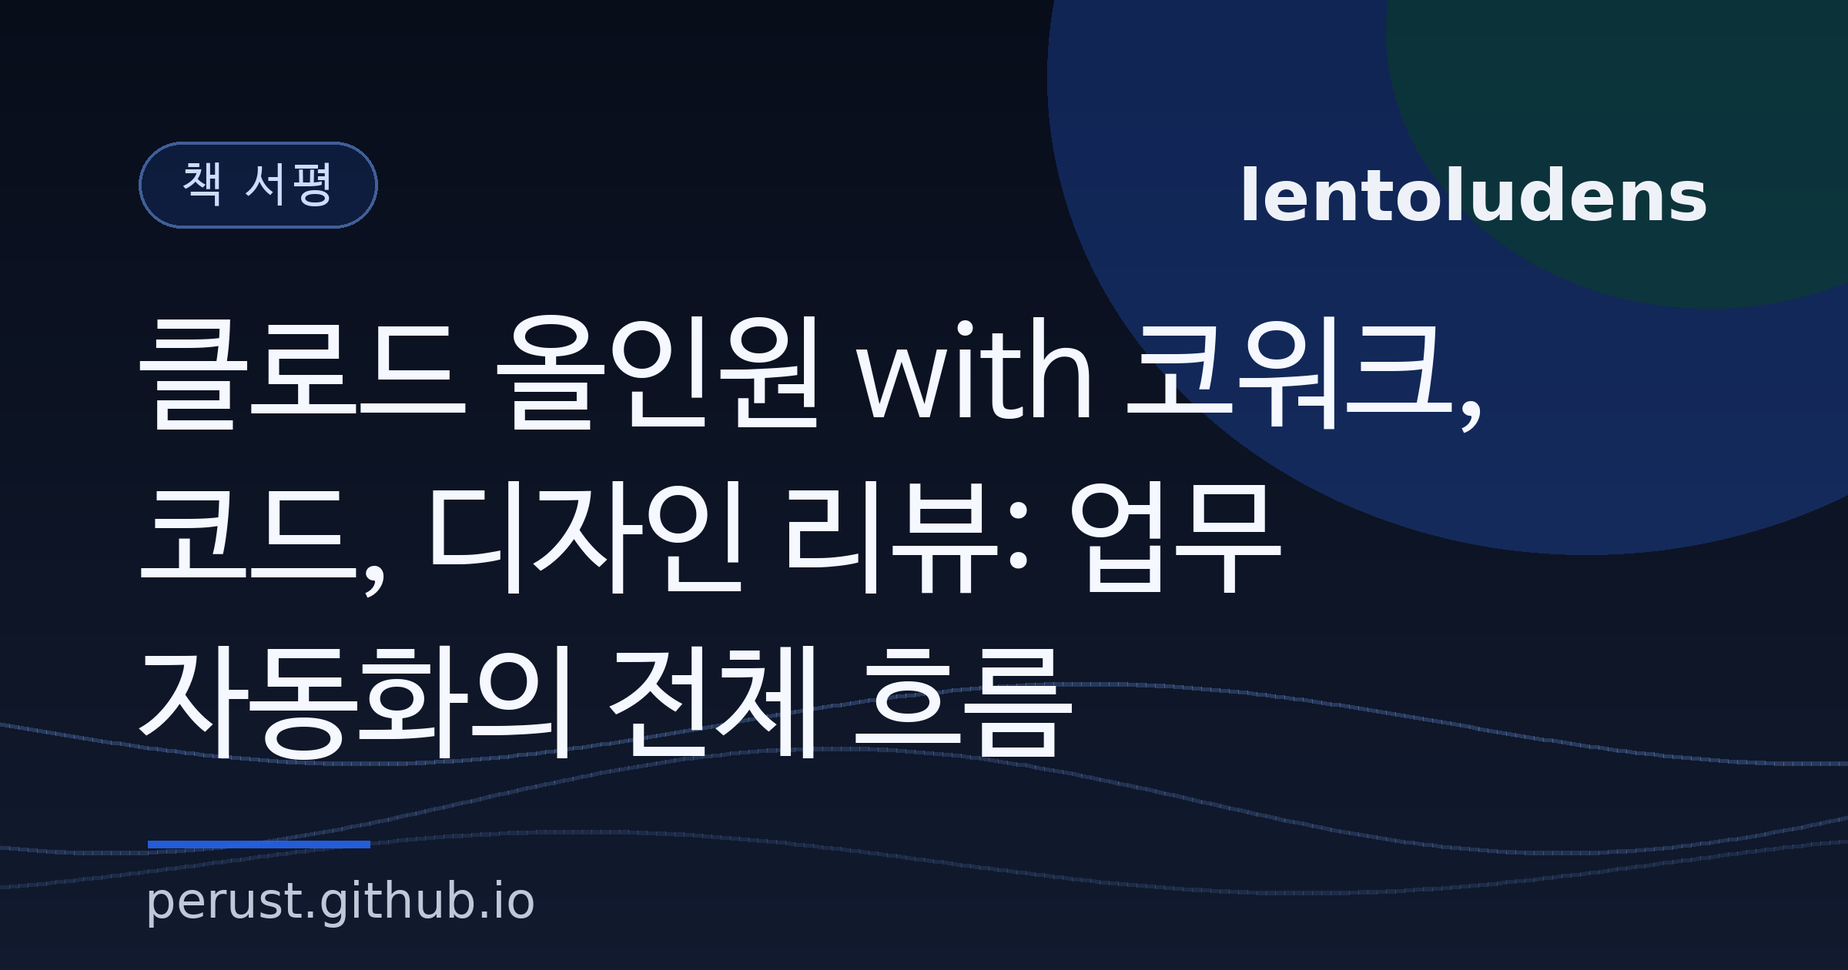
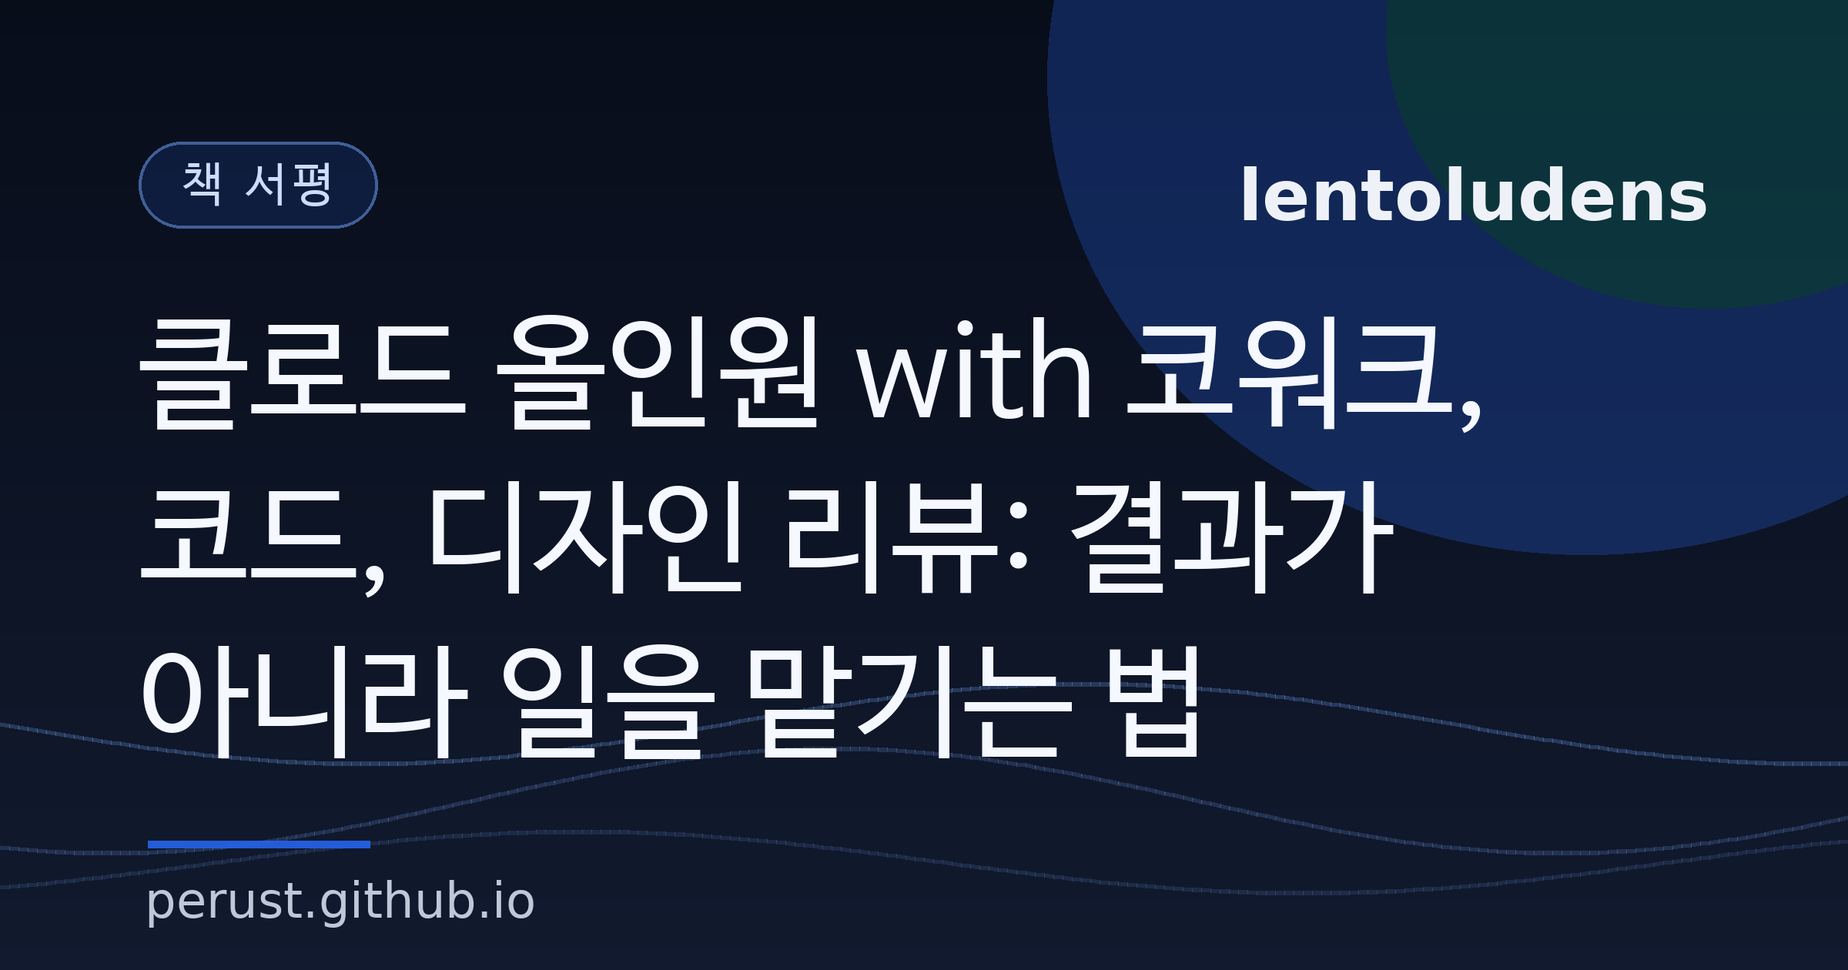
Rewrite Claude book review around personal experience

Changed region(s): [[0.0625, 0.65, 0.6562, 0.8048], [0.5625, 0.4952, 0.75, 0.619]]

diff --git a/src/content/blog/2026-07-27-claude-all-in-one-with-cowork-code-design-review.md b/src/content/blog/2026-07-27-claude-all-in-one-with-cowork-code-design-review.md
@@ -1,6 +1,6 @@
 ---
-title: "클로드 올인원 with 코워크, 코드, 디자인 리뷰: 업무 자동화의 전체 흐름"
-description: "한빛미디어 실용서 클로드 올인원 with 코워크, 코드, 디자인의 구성과 첫인상을 목차와 파트 도입부를 기준으로 정리한 1차 리뷰입니다. 실습 경험은 추후 보완합니다."
+title: "클로드 올인원 with 코워크, 코드, 디자인 리뷰: 결과가 아니라 일을 맡기는 법"
+description: "Chat, Cowork, Code의 미묘한 차이부터 문서·디자인·바이브 코딩까지, 클로드를 실제 업무와 생활에 활용하는 방법을 읽으며 느낀 점을 정리했습니다."
 date: "2026-07-27"
 category: "책 서평"
 tags: ["Claude", "자동화", "AI도구", "바이브코딩", "생산성"]
@@ -10,7 +10,7 @@ valueType: "review"
 
 한빛미디어 서평단 "나는리뷰어다" 활동을 위해 책을 제공받아 작성한 서평입니다.
 
-※ 이 글은 공식 목차와 각 파트 도입부, 21장 도입부를 살펴본 단계에서 정리한 1차 리뷰입니다. 직접 따라 해본 실습과 세부 감상은 이후 본문에 덧붙일 예정입니다.
+전자책으로 Part 01부터 Part 05까지 읽었지만, 책의 모든 실습을 직접 따라 하지는 않았습니다.
 
 ## 책 소개
 
@@ -19,8 +19,6 @@ valueType: "review"
 </a>
 
 <small style="text-align: center;">표지 이미지 제공: 한빛미디어</small>
-
-『클로드 올인원 with 코워크, 코드, 디자인』은 클로드를 채팅으로만 사용하는 단계에서 벗어나 문서 작업, 파일 정리, 디자인 제작, 외부 서비스 연결, 반복 업무 자동화, 작은 업무 도구 제작까지 이어가는 방법을 다루는 책입니다.
 
 <div class="routine-kv">
   <div><dt>도서</dt><dd>클로드 올인원 with 코워크, 코드, 디자인</dd></div>
@@ -35,90 +33,82 @@ valueType: "review"
 
 <img src="/images/posts/2026-07-27-claude-all-in-one-review/reading-cover.webp" alt="태블릿 화면에 띄운 클로드 올인원 with 코워크, 코드, 디자인 전자책 표지" width="1000" height="1333" loading="lazy" style="max-width: 680px; margin: 0 auto;" />
 
-<small style="text-align: center;">한빛+에서 전자책 표지를 띄운 모습</small>
+<small style="text-align: center;">한빛+에서 전자책 표지를 띄운 모습. 표지 저작권은 한빛미디어에 있습니다.</small>
 
-## 채팅 사용법을 넘어 업무 흐름으로
+## Chat, Cowork, Code는 무엇이 다를까
 
-클로드를 처음 접하면 보통 채팅창에 질문하고 답을 받는 방식부터 시작합니다. 문장을 다듬거나 자료를 요약하고 필요한 코드를 물어보는 식입니다. 이 책은 그 다음 단계에서 필요한 질문을 다룹니다. "어떻게 물어볼까?"보다 "이 일을 어디에 맡기고 어디까지 진행할까?"에 초점을 맞춥니다.
+데스크톱 앱 안에서도 클로드는 Chat, Cowork, Code로 나뉩니다. 역할을 확실하게 나눠놓았다는 뜻인데, 처음에는 그 차이가 생각보다 미묘하게 느껴졌습니다. 셋 모두 자연어로 요청하면 내용을 이해하고 원하는 결과를 만들어주기 때문입니다.
 
-공식 목차를 따라가면 먼저 작업의 크기와 성격을 구분하고 알맞은 작업 방식을 고른 뒤, 여러 파일 처리와 외부 도구 연결, 반복 가능한 스킬 제작으로 범위가 넓어집니다. 마지막에는 바이브 코딩으로 작은 업무 도구와 대시보드를 만드는 과정까지 이어집니다.
+제가 이해한 차이는 결과가 남는 방식입니다. Chat은 웹 버전 클로드처럼 대화창을 통해 의견을 주고받습니다. Cowork는 작업 과정과 산출물 중심으로 기록이 생기고, Code는 선택한 작업 폴더 안에 결과가 파일로 남습니다.
 
-이 흐름을 보며 기능을 많이 아는 것보다 일이 커질 때 도구를 바꾸는 기준이 더 중요하다는 생각이 들었습니다. 짧은 초안과 PDF 요약은 채팅에서 끝낼 수 있지만, 여러 문서를 같은 형식으로 정리하거나 폴더와 반복 실행을 다루려면 코워크와 코드가 필요합니다.
-
-## 5개 파트의 구성
-
-한빛미디어 공식 도서 페이지의 목차 기준으로 5개 파트, 21개 장 구성입니다. 코드는 별도의 한 파트에만 묶이지 않고 문서 묶음 처리와 폴더 정리, 반복 자동화, 업무 도구 제작에 걸쳐 등장합니다.
-
-<ul class="issue-list">
-  <li class="issue-card">
-    <span class="issue-badge">Part 01</span>
-    <h3>내 일에 맞는 클로드 알아보기</h3>
-    <p class="issue-summary">채팅, 코워크, 코드, 디자인의 차이를 살펴보고 작업 규모와 방식에 맞는 도구를 고르는 기준을 정리합니다.</p>
-  </li>
-  <li class="issue-card">
-    <span class="issue-badge">Part 02</span>
-    <h3>문서와 자료 다듬기</h3>
-    <p class="issue-summary">초안, 이메일, 회의록, PDF, 표 데이터와 여러 문서 묶음을 다루며 출처와 원본을 지키는 방법을 설명합니다.</p>
-  </li>
-  <li class="issue-card">
-    <span class="issue-badge">Part 03</span>
-    <h3>클로드 디자인 알아보기</h3>
-    <p class="issue-summary">카드, 슬라이드, 카드뉴스, 안내문, 인포그래픽을 만들고 DESIGN.md에 디자인 기준을 남기는 흐름을 다룹니다.</p>
-  </li>
-  <li class="issue-card">
-    <span class="issue-badge">Part 04</span>
-    <h3>스킬·커넥터로 반복 업무 줄이기</h3>
-    <p class="issue-summary">플러그인, 커넥터, 스킬, 슬래시 커맨드와 예약 실행을 이용해 반복 지시를 줄이는 방법을 소개합니다.</p>
-  </li>
-  <li class="issue-card">
-    <span class="issue-badge">Part 05</span>
-    <h3>바이브 코딩으로 업무 도구 만들기</h3>
-    <p class="issue-summary">읽기 전용 브라우저·파일 작업부터 작은 업무 도구, 반복 루틴, HTML 대시보드 제작까지 단계적으로 확장합니다.</p>
-  </li>
-</ul>
+보고서의 초안이 필요할 때는 Chat, 여러 자료를 같은 기준으로 정리할 때는 Cowork, 한 폴더 안의 파일을 세세하게 수정할 때는 Code를 쓰는 식입니다. 책의 설명을 따르면 여러 폴더에 흩어진 파일을 정리하고 반복 기준에 맞춰 처리할 때는 Cowork가 어울립니다. 그래도 셋의 경계를 한 문장으로 단정하기는 어려웠습니다. 작업 범위와 반복성, 결과를 어디에 남길지에 따라 선택이 달라집니다.
 
 <img src="/images/posts/2026-07-27-claude-all-in-one-review/part-01.webp" alt="내 일에 맞는 클로드 알아보기라는 제목의 Part 01 도입부" width="1200" height="800" loading="lazy" style="max-width: 680px; margin: 0 auto;" />
 
 <small style="text-align: center;">Part 01 도입부 전자책 화면 촬영. 『클로드 올인원 with 코워크, 코드, 디자인』, 한빛미디어. 저작권은 한빛미디어에 있습니다.</small>
 
-## 기능 선택과 안전장치를 함께 설명하는 구성
+## 결과 하나가 아니라 일 하나를 맡긴다는 것
 
-AI 도구로 결과를 빨리 얻는 이야기만 이어질 것이라고 생각했지만, 공식 목차에는 개인정보와 학습 설정, 폴더 권한, 원본 보호, 읽기 권한, 외부 스킬 설치 전 검증, 실행 전 계획 확인 같은 항목도 반복해서 나옵니다. 저는 자동화 사례보다 권한과 원본을 다루는 항목이 함께 배치된 점이 더 눈에 남았습니다.
+책의 예시 프롬프트를 처음 봤을 때는 "이 정도로 상세하게 요청해야 하나?"라는 생각이 들었습니다. 하지만 책에서는 결과 하나를 달라고 요청하는 것이 아니라 일 하나를 맡긴다는 마음으로 적으라고 설명합니다.
 
-여러 파일을 한꺼번에 다루기 전에 복사본 폴더에서 시작하고, 작업이 끝난 뒤 변경 목록을 확인하는 순서도 목차에 포함되어 있습니다. 외부 커넥터는 읽기 권한으로 시작하고, 외부 스킬은 출처와 파일 구조, 지시문과 스크립트를 살펴본 뒤 샘플 폴더에서 시험하는 흐름입니다.
+단순히 "자료를 비교해줘"라고 말하는 대신 무엇을 찾아야 하는지, 어떤 기준으로 비교해야 하는지, 결과를 어떤 형태로 남겨야 하는지를 같이 적는 방식입니다. 사람에게 일을 맡길 때도 대상과 기준이 없으면 서로 다른 결과를 생각하게 됩니다. AI에게도 같은 문제가 생깁니다.
 
-자동화는 "알아서 해주는 기능"이라기보다 작업 범위와 성공 기준을 정하고, 원본을 보호하면서 결과를 검토하는 절차에 가깝습니다. 이 책이 실습 결과만 보여주지 않고 그 전후의 안전장치를 함께 다룬다는 점은 입문자에게 특히 유용해 보입니다.
+저는 책에 나온 예시 요청들을 모두 저장해두었습니다. 필요한 상황이 생기면 예시를 꺼내 대상과 기준을 바꿔 써볼 생각입니다. 프롬프트 문장 자체를 외우는 것보다 어떤 정보와 기준이 들어갔는지를 익히는 편이 더 오래 쓸 수 있을 것 같습니다.
 
-## 반복 지시를 스킬과 규칙 파일로 남기기
+## "올인원"이라서 얕을 것이라는 예상
 
-Part 04에서는 반복해서 입력하던 지시를 스킬로 만드는 방법을 다룹니다. 회의록 정리나 주간 리뷰처럼 입력과 처리 규칙, 출력 형식이 반복되는 일이라면 매번 긴 프롬프트를 다시 쓰는 대신 `SKILL.md`에 규칙을 남길 수 있습니다.
+제목에 "올인원"이 들어가 있어 처음에는 여러 기능을 조금씩 소개하는 입문서일 것이라고 예상했습니다. 실제로는 생각보다 넓은 범위를 꽤 세세하게 다룹니다. Chat, Cowork, Code의 구분에서 시작해 문서와 PDF, 디자인, 스킬, 커넥터, 예약 실행, 브라우저와 파일 작업, 바이브 코딩, 업무 대시보드까지 이어집니다.
 
-디자인 파트의 `DESIGN.md`도 비슷한 역할을 합니다. 배경색, 강조색, 제목과 본문 스타일, 결과물의 기준을 파일로 남겨두면 다음 작업에서도 같은 방향을 유지하기 쉬워집니다. 말로 한 번 요청하고 끝나는 것이 아니라, 잘 작동한 기준을 다시 사용할 수 있는 자산으로 바꾸는 접근입니다.
+클로드를 처음 다루는 사람도 책의 순서대로 따라가면 단순히 질문과 답변만 주고받는 단계를 넘어설 수 있습니다. 기능을 모두 능숙하게 쓴다고 단정할 수는 없지만, 적어도 어떤 작업을 어느 도구에 맡길지 판단하는 중급 사용자에 가까워질 수 있겠다는 생각이 들었습니다.
 
-이 부분은 제가 AI 에이전트와 자동화 도구를 사용하며 중요하다고 느낀 지점과도 연결됩니다. AI에게 매번 처음부터 설명하면 결과가 흔들리기 쉽지만, 프로젝트 지침과 스킬에 판단 기준을 쌓아두면 다음 작업의 출발점이 달라집니다. 좋은 프롬프트 한 문장보다 계속 다듬을 수 있는 작업 규칙이 더 오래 남습니다.
+## 회사 문서만이 아니라 생활 정리까지
 
-## 마지막 장에 들어간 검토 기준
+집안 서류나 장보기 목록 같은 생활 영역의 예시도 나옵니다. 모바일과 데스크톱 앱을 오가며 메모를 남기고, 밖에서는 음성으로 기록한 뒤 나중에 정리하는 식입니다. 업무용 AI라고 하면 회사 문서부터 떠올리기 쉬운데, 일상에서 반복되는 작은 정리에도 활용할 수 있다는 점이 좋았습니다.
 
-21장에서는 실습용 매출 게시판 데이터를 통합하고 HTML 대시보드로 정리하는 흐름을 다룹니다. 이 장의 학습 목표에는 화면 제작뿐 아니라 날짜 범위, 행 수, 빈 값, 계산 오류, 숫자 표현과 개인정보를 검토하는 항목도 포함되어 있습니다.
+문서, 이메일, PDF를 AI로 다룰 때 어떤 식으로 요청해야 하는지뿐 아니라 무엇을 주의해야 하는지도 자세히 설명합니다. 원본을 보호하고, 출처와 기준 날짜를 확인하고, 사실과 추정을 구분하는 항목이 함께 나옵니다. 결과를 믿어도 되는지 확인하는 방법까지 다룬 점이 좋았습니다.
+
+짧게 소개되는 안드레이 카파시(Andrej Karpathy)의 LLM 위키도 눈에 남았습니다. 제가 읽고 정리한 자료를 서로 연결된 지식으로 쌓아두면 어떨지 떠올랐고, 실제로 한번 만들어보고 싶다는 생각이 들었습니다.
+
+## 클로드 디자인은 그림을 만드는 기능만이 아니었다
+
+클로드 디자인을 처음 들었을 때는 디자인에 특화된 별도의 생성형 AI라고 생각했습니다. 책을 보니 포스터, 카드뉴스, 안내문, 슬라이드, 원페이저와 프로토타입을 만들고 수정하는 흐름을 다룹니다. 결과물을 내보내는 데서 끝나지 않고 팀원이 댓글을 달고 의견을 나누는 협업 방식도 포함되어 있었습니다.
+
+이 모습을 보니 단순한 이미지 생성 기능보다 웹 디자이너가 시안을 만들고 검토받는 작업 방식과 닮아 보였습니다. `DESIGN.md`에 색상, 글꼴, 여백과 같은 기준을 남겨 다음 작업에서도 같은 방향을 유지하는 방식도 실용적이었습니다.
+
+디자인 감각이 부족하더라도 목적과 기준을 구체적으로 전달하고, 결과를 검토하며 수정할 수 있다면 업무에 쓸 수 있는 범위가 넓어집니다. 클로드 디자인은 처음부터 끝까지 디자인 작업을 끌고 가는 데 도움을 주는 기능으로 보였습니다.
+
+## AI 문체가 보이는 시대에 더 중요해진 기준
+
+요즘은 유튜버나 인플루언서뿐 아니라 학생들도 외부에 보여줄 문장을 조금이라도 다듬을 때 AI를 쓰는 것 같습니다. 그러다 보니 자주 보이는 단어와 문장 형태도 생겼습니다. 검수하지 않은 AI 문장이 계속 이어지는 글을 두고 "AI 슬롭"이라고 부르는 이유도 이해됩니다.
+
+저도 전자책을 자주 읽는데, 최근 출간된 책 중에서도 AI 문체가 강하게 느껴지는 경우가 있었습니다. 큰 맥락은 작가가 잡았더라도 문장이 명확하게 말하지 않고 뭉뚱그려져 있으면, 외국어를 한 번 더 번역해 읽는 것처럼 내용이 늦게 들어옵니다. 그런 문장을 만날 때마다 책에 대한 몰입이 깨졌습니다.
+
+AI가 발전하면서 이런 문제도 줄어들 수 있습니다. 하지만 AI를 쓰는 사람이 늘어날수록 사람 냄새가 나고 손이 간 글이 더 잘 읽히지 않을까 생각합니다. 잘 쓰인 글은 정성을 들인 파인다이닝 요리처럼 느껴집니다.
+
+이 책을 읽으며 결과물에 기준을 주는 일이 왜 중요한지도 다시 생각했습니다. 포스터, 카드뉴스, 안내문처럼 같은 종류의 문서를 만들더라도 목적만 던져준 결과와 독자, 톤, 사실 정보, 접근성, 파일 형식까지 기준을 세운 결과는 다를 수밖에 없습니다. 요청과 검토의 기준에서 결과물의 품질 차이가 생깁니다.
+
+## 직접 만들어 본 사람에게 와닿은 Part 05
+
+문서와 디자인 작업도 흥미로웠지만, 제 경험과 가장 많이 겹친 건 Part 05의 "바이브 코딩으로 업무 도구 만들기"였습니다. 저도 올해 초부터 AI를 활용해 업무 보조 도구를 만들었고, 그 과정에서 반복 업무에 쓰는 시간을 꽤 줄였습니다.
+
+작은 도구라도 실제 업무에 계속 붙여 쓰려면 처음 만든 뒤가 더 중요했습니다. 기능을 한 번에 많이 넣기보다 필요한 기능을 하나씩 추가하고, 변경 전후를 비교하고, 오류가 생기면 다시 고치는 과정이 필요했습니다. 책에서도 작은 도구의 성공 기준을 먼저 정하고, 샘플 데이터와 복사본으로 시험한 뒤 업무 루틴에 붙이는 순서로 설명합니다. 제가 직접 겪은 과정과 닮아 있어 더 현실적으로 느껴졌습니다.
+
+책에서 소개한 디스패치 기능도 사용해봤습니다. PC에서 실행 중인 클로드를 모바일로 조작해 외부에서 작업을 이어갈 수 있어 편리했습니다. 다만 해당 PC에서 작업 세션이 열려 있어야 한다는 점은 불편했습니다. 그래서 지금은 클라우드에서 동작하는 헤르메스 에이전트(Hermes Agent)를 통한 작업도 시도하고 있습니다. 같은 원격 작업이라도 어디에서 실행되고 세션이 어떻게 유지되는지에 따라 사용감이 달라졌습니다.
+
+## 업무 대시보드를 개인 생활에도 쓸 수 있을까
+
+마지막 21장에서는 데이터를 모아 HTML 대시보드로 정리하고, 새 데이터가 들어왔을 때 갱신하는 흐름을 다룹니다.
 
 <img src="/images/posts/2026-07-27-claude-all-in-one-review/chapter-21.webp" alt="업무 대시보드로 바이브 코딩 완성하기라는 제목의 21장 도입부" width="1200" height="330" loading="lazy" style="max-width: 680px; margin: 0 auto;" />
 
 <small style="text-align: center;">21장 도입부 전자책 화면 촬영. 『클로드 올인원 with 코워크, 코드, 디자인』, 한빛미디어. 저작권은 한빛미디어에 있습니다.</small>
 
-마지막 장에 코드나 디자인 결과만 두지 않고 데이터와 표현을 다시 살피는 기준까지 넣은 편집 구성이 인상적이었습니다. 앞에서 익힌 기능을 하나의 결과물로 모으되, 완성 여부를 화면이 보인다는 사실만으로 판단하지 않는 흐름입니다.
+업무용으로 안정적으로 만들 수 있다면 꽤 유용할 것 같습니다. 읽다 보니 개인 용도의 대시보드도 떠올랐습니다. 투자 현황, 할 일, 일정, 반복되는 생활 기록을 한 화면에 모으고 자동으로 갱신한다면 매번 여러 서비스를 돌아다니는 시간을 줄일 수 있습니다.
 
-문서와 자료를 다루는 실습에서 출발해 대시보드 제작으로 이어지는 구성은 제목의 "올인원"을 잘 보여줍니다. 동시에 마지막까지 검토 기준을 놓지 않는다는 점에서, 이 책은 기능 목록보다 업무를 맡기고 결과를 확인하는 순서를 설명하는 입문서에 더 가깝다고 느꼈습니다.
-
-## 현재까지의 첫인상
-
-현재까지 가장 좋았던 점은 넓은 기능을 작업의 크기와 위험도에 따라 연결한다는 것입니다. 코딩 경험이 많지 않은 사람도 회의록, 이메일, PDF, 자료 비교처럼 익숙한 업무에서 시작할 수 있습니다. 클로드 코드나 AI 에이전트를 이미 사용하고 있는 사람에게는 코워크, 디자인, 커넥터와 스킬을 하나의 루틴으로 묶어보는 계기가 될 수 있습니다.
-
-다루는 기능이 많은 만큼 하나의 기능을 깊게 파고드는 전문서와는 방향이 다릅니다. 특정 기능만 자세히 배우려는 독자보다 클로드를 업무 전반에 어떻게 배치할지 큰 흐름을 잡고 싶은 독자에게 더 잘 맞는 구성으로 보입니다.
-
-아직 판단을 유보한 부분도 있습니다. 2026년 6월 출간 당시의 화면 구성과 메뉴 이름이 이후 업데이트에서도 그대로 유지되는지, 540쪽 안에 담긴 각 실습의 분량이 충분한지는 직접 따라 해본 뒤에 평가해야 합니다. 코워크의 문서 묶음 처리, DESIGN.md, 업무 대시보드 실습을 진행하면서 이 부분을 다시 적을 예정입니다.
+대시보드는 화면이 예쁜 것만으로는 오래 쓰기 어렵습니다. 데이터를 믿을 수 있어야 합니다. 날짜 범위와 누락된 값, 계산 오류를 확인하고 개인정보를 제거하는 과정이 함께 있어야 믿고 쓸 수 있습니다. 이 책의 마지막 장은 디자인 완성 뒤의 검토 기준까지 다룹니다.
 
 ## 마무리
 
-첫인상을 한 문장으로 정리하면, 클로드의 여러 기능을 따로 배우기보다 어떤 일을 어디에 맡기고 어떤 기준으로 결과를 검토할지 알려주는 책입니다.
+『클로드 올인원 with 코워크, 코드, 디자인』은 기능을 많이 소개하는 책이지만, 제가 읽고 남은 핵심은 기능 목록이 아니었습니다. 결과 하나를 요구하는 대신 일 하나를 맡기고, 찾을 대상과 판단 기준을 함께 전달하며, 결과가 남을 위치와 검토 방법까지 정하는 과정이었습니다.
 
-현재 글은 목차와 도입부를 중심으로 전체 지도를 먼저 정리했습니다. 다음 수정에서는 실제 실습을 따라가며 잘 작동한 부분, 화면이나 설명이 달라진 부분, 아쉬웠던 점을 구체적으로 덧붙이겠습니다.
+클로드를 처음 접하는 사람에게는 Chat에서 시작해 Cowork와 Code로 넘어가는 지도가 될 수 있습니다. 이미 클로드나 다른 AI 에이전트를 쓰고 있는 사람에게는 막연하게 사용하던 방식을 다시 정리하고, 반복 가능한 업무 흐름으로 바꾸는 기준을 제공하는 책입니다.
